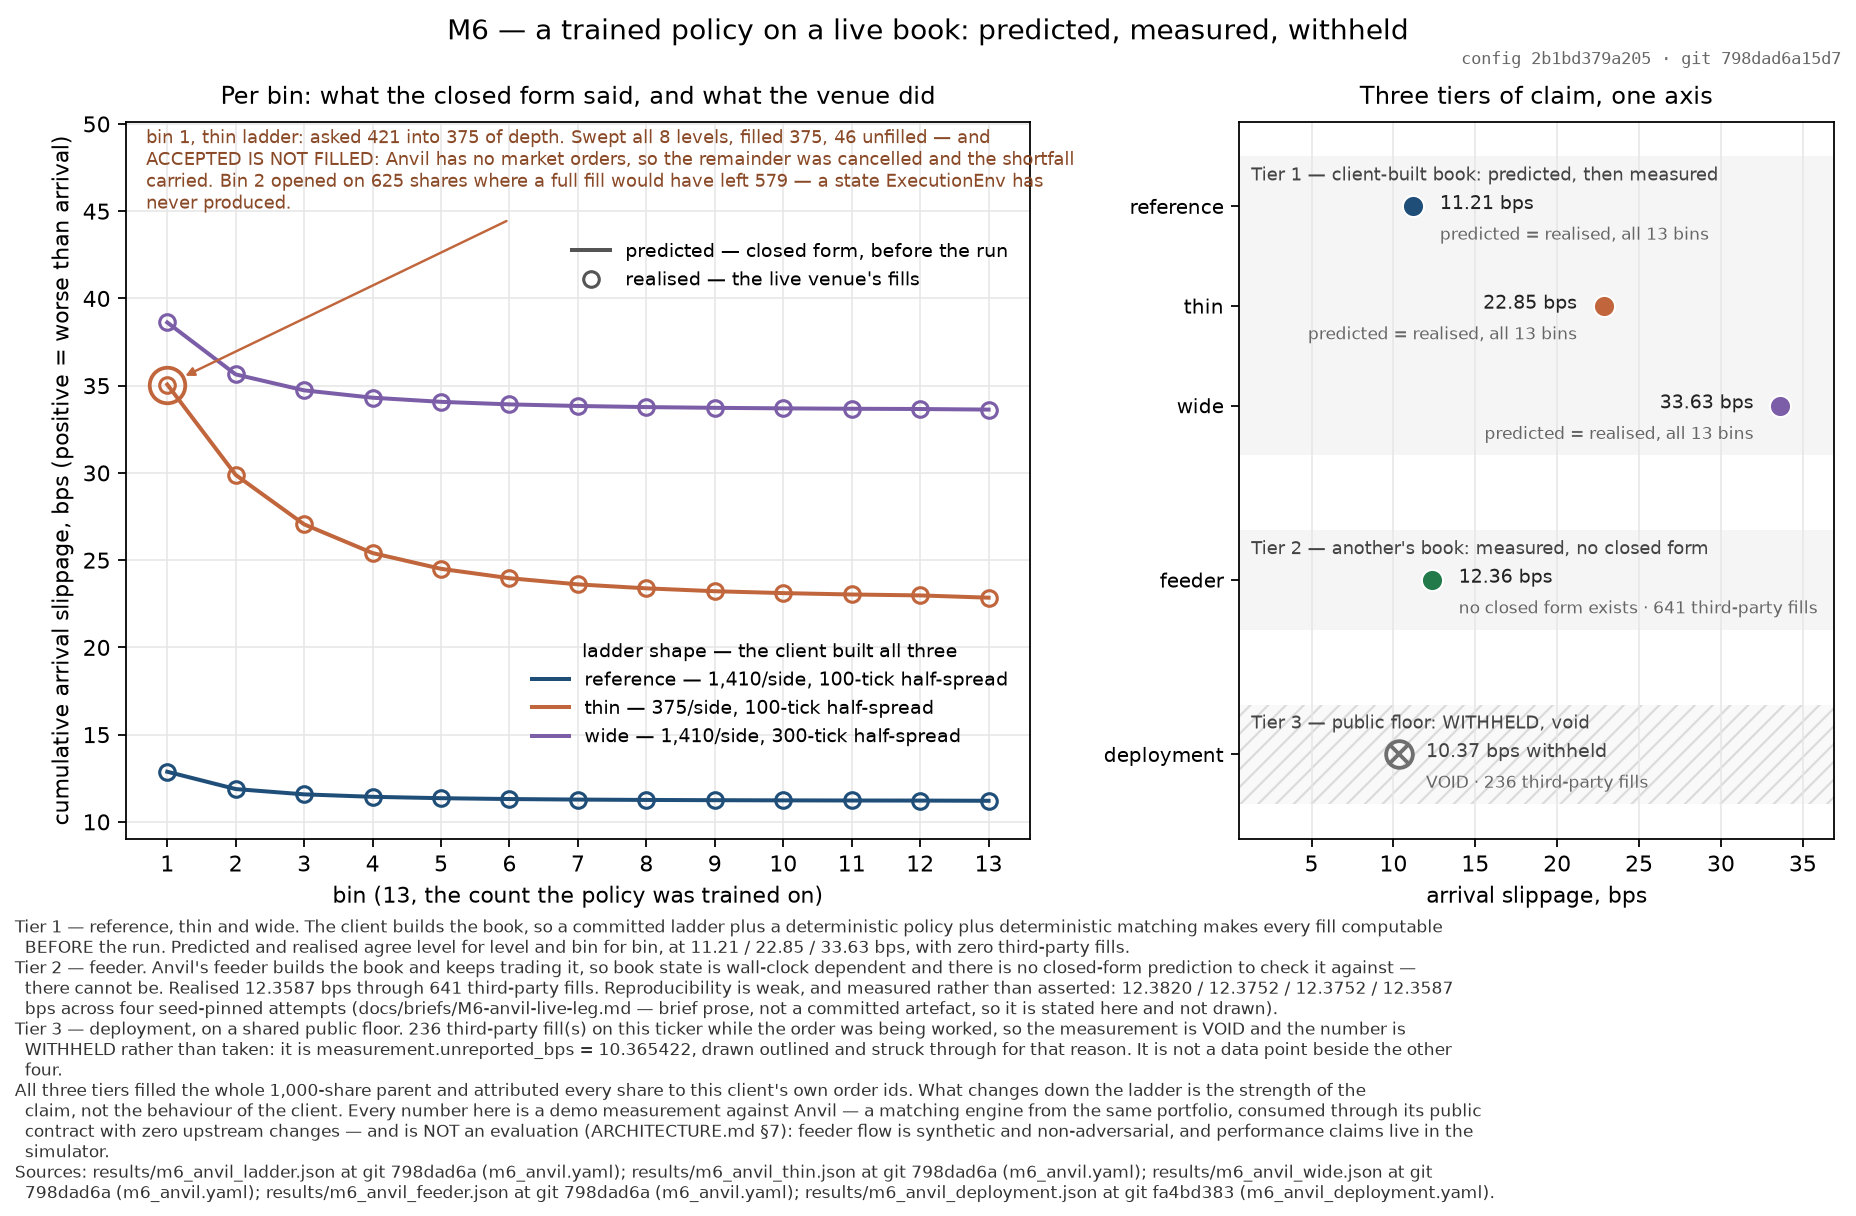
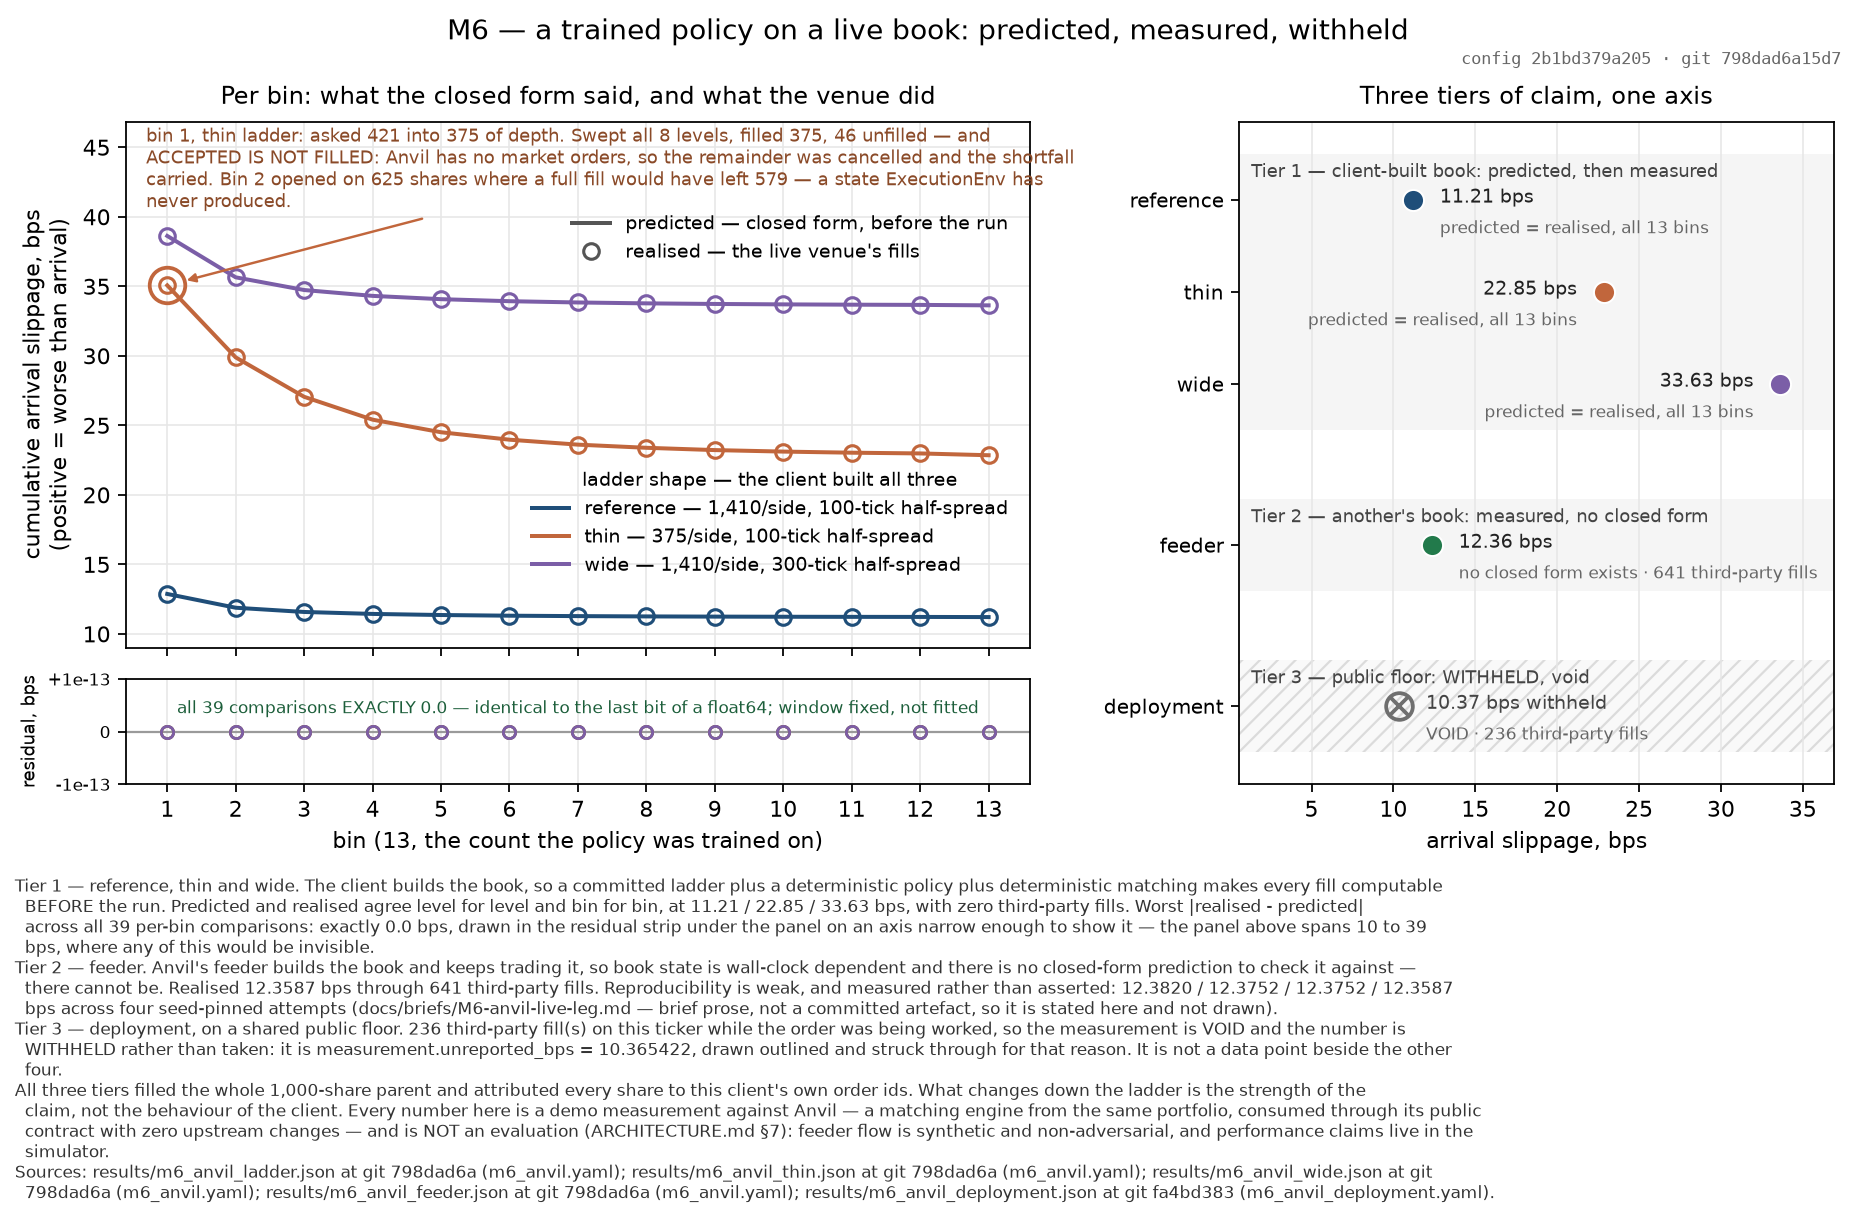
The left panel proves its agreement instead of asserting it
Predicted and realised sat on top of each other on a 10-to-39 bps axis, which is what
agreement to the digit looks like and also what agreement to one percent looks like.
The panel was scaled to the size of the data rather than to the size of the claim —
the same mistake M4a's tolerance denominator was about, made in a figure instead of a
bar.

A residual strip under the left panel now plots realised minus predicted for all 39 bin
comparisons on an axis scaled to the precision actually achieved. The caption carries
the max absolute residual, and `tests/test_m6_runs.py` asserts it, because an unchecked
number in a caption is the same defect class the house note names.

**The residuals are exactly 0.0 — all thirty-nine of them**, which is a stronger result
than a small bound and needed the branch the strip was built with. The predicted and
realised bins carry identical integer `notional_tick_shares` and `filled`, so the
cumulative series are identical floats operation for operation; the difference is not
small, it is zero. With no scale to take from the data an autoscaled axis would have
invented one and made bit-identity look like a measurement with error bars, so the strip
fixes its window at ±1e-13 bps — about eleven of float64's last bits at 39 bps, wide
enough that a single-ulp disagreement would be visible rather than clipped — and says
on its face that the window is fixed, not fitted. If a residual ever stops being zero
[…]

diff --git a/temper/eval/figures.py b/temper/eval/figures.py
@@ -975,6 +975,13 @@ M6_COLOURS = {
 #: that its number must not read as a data point beside the four that are.
 VOID_EDGE = "#6f6f6f"
 
+#: The half-width of the residual strip's y axis when every residual is
+#: exactly zero. Float64's last bit on a value near 39 bps is about 9e-15,
+#: so this window is roughly eleven of them: wide enough that a single-ulp
+#: disagreement would be visible rather than clipped, narrow enough that
+#: the number on the axis says what precision is being claimed.
+ZERO_RESIDUAL_WINDOW_BPS = 1e-13
+
 #: Vertical gap between two rows of the same tier, and between two tiers. The
 #: tiers are the argument, so they are separated by more than the runs inside
 #: them — the grouping has to survive being glanced at.
@@ -1013,6 +1020,19 @@ def prediction_figure(
     figure that let it pass as an ordinary point would be hiding the most
     interesting thing in the milestone.
 
+    **Under it — the residual strip, which is what turns the claim into
+    evidence.** On a 10-to-39 bps axis a marker sitting on a line looks the same
+    whether the two agree to the last bit or to one percent: the panel above is
+    scaled to the size of the *data*, and the claim is about a quantity three
+    orders of magnitude smaller. So the strip differences the very arrays the
+    panel plots — not a second route to them, or it would stop being a check on
+    the panel — and shows all 39 per-bin comparisons on an axis scaled to the
+    precision actually achieved. Where every residual is exactly zero the axis
+    has no scale to take from the data, so a fixed narrow window is used and the
+    strip says so: *identical to the last bit* is a stronger statement than any
+    nonzero bound, and it should be made rather than hidden inside an autoscaled
+    empty axis.
+
     **Right — the three tiers on one bps axis.** Tier 1 predicts and measures.
     Tier 2 measures and cannot predict, and the artefact says why rather than
     apologising for it. Tier 3 *withholds*: 236 third-party fills on a public
@@ -1024,17 +1044,28 @@ def prediction_figure(
     ``tools/m6_prediction.py``: nothing here recomputes a fill, so the figure is a
     *view* of results and redraws byte-identically from them.
     """
-    figure, (left, right) = plt.subplots(
-        1, 2, figsize=(11.6, 7.6), gridspec_kw={"width_ratios": (1.52, 1.0)}
+    figure = plt.figure(figsize=(11.6, 7.6))
+    # The left column is two rows sharing an x-axis; the right panel spans both,
+    # so the tier layout is untouched by the strip's arrival.
+    grid = figure.add_gridspec(
+        2, 2, width_ratios=(1.52, 1.0), height_ratios=(5.0, 1.0)
     )
+    left = figure.add_subplot(grid[0, 0])
+    strip = figure.add_subplot(grid[1, 0], sharex=left)
+    right = figure.add_subplot(grid[:, 1])
 
     # ---- left panel: per bin, predicted against realised -------------------
     bins = np.asarray(ladders["bins"], dtype=float)
+    # Kept as they are drawn, so the strip below differences the arrays this
+    # panel actually plotted rather than recomputing them from the source.
+    drawn_series: list[tuple[str, np.ndarray]] = []
     for row in ladders["runs"]:
         colour = M6_COLOURS[row["run"]]
+        predicted = np.asarray(row["predicted_bps"], dtype=float)
+        realised = np.asarray(row["realised_bps"], dtype=float)
         left.plot(
             bins,
-            np.asarray(row["predicted_bps"], dtype=float),
+            predicted,
             color=colour,
             linewidth=1.8,
             zorder=2,
@@ -1042,7 +1073,7 @@ def prediction_figure(
         )
         left.plot(
             bins,
-            np.asarray(row["realised_bps"], dtype=float),
+            realised,
             linestyle="none",
             marker="o",
             markersize=7.0,
@@ -1051,6 +1082,7 @@ def prediction_figure(
             markeredgewidth=1.4,
             zorder=3,
         )
+        drawn_series.append((colour, realised - predicted))
 
     # The bin where the loop closed. Ringed first so the annotation's leader has
     # something to point at that is visibly not one of the ordinary markers.
@@ -1125,26 +1157,90 @@ def prediction_figure(
         frameon=False,
     )
 
-    left.set_xlabel("bin (13, the count the policy was trained on)")
-    left.set_ylabel("cumulative arrival slippage, bps (positive = worse than arrival)")
+    left.set_ylabel(
+        "cumulative arrival slippage, bps\n(positive = worse than arrival)"
+    )
     left.set_title(
         "Per bin: what the closed form said, and what the venue did",
         fontsize=11,
         pad=8,
     )
-    left.set_xticks(bins)
-    left.xaxis.set_major_formatter(ticker.FormatStrFormatter("%d"))
+    left.tick_params(labelbottom=False)
     left.set_xlim(0.4, 13.6)
     # Headroom above the tallest point, reserved rather than left to the
     # autoscaler: the annotation is placed in axes fractions and would
-    # otherwise sit on top of the wide ladder's first bin.
+    # otherwise sit on top of the wide ladder's first bin. Trimmed from 0.42
+    # when the strip arrived — the top of the panel was the only empty space
+    # the strip could come out of without a taller canvas.
     drawn = np.concatenate(
         [np.asarray(row["realised_bps"], dtype=float) for row in ladders["runs"]]
     )
     low, high = float(np.nanmin(drawn)), float(np.nanmax(drawn))
-    left.set_ylim(low - 0.08 * (high - low), high + 0.42 * (high - low))
+    left.set_ylim(low - 0.08 * (high - low), high + 0.30 * (high - low))
     left.grid(color="#e6e6e6", linewidth=0.7)
     left.set_axisbelow(True)
+
+    # ---- the residual strip ------------------------------------------------
+    residuals = np.concatenate([series for _, series in drawn_series])
+    comparisons = int(residuals.size)
+    worst = float(np.nanmax(np.abs(residuals))) if comparisons else 0.0
+    if worst == 0.0:
+        # No scale to take from the data. A fixed window, stated on the axis and
+        # in the strip, rather than an autoscaled axis that would silently invent
+        # one and make bit-identity look like a measurement with error bars.
+        window = ZERO_RESIDUAL_WINDOW_BPS
+        verdict = (
+            f"all {comparisons} comparisons EXACTLY 0.0 — identical to the last bit "
+            f"of a float64; window fixed, not fitted"
+        )
+        verdict_colour = "#1c5e3a"
+    else:
+        window = 1.6 * worst
+        verdict = (
+            f"worst |realised − predicted| over {comparisons} comparisons: "
+            f"{worst:.2e} bps"
+        )
+        verdict_colour = "#8a4a28"
+
+    strip.axhline(0.0, color="#9a9a9a", linewidth=1.0, zorder=1)
+    for colour, series in drawn_series:
+        strip.plot(
+            bins,
+            series,
+            linestyle="none",
+            marker="o",
+            markersize=5.5,
+            markerfacecolor="none",
+            markeredgecolor=colour,
+            markeredgewidth=1.2,
+            zorder=3,
+        )
+    strip.text(
+        0.5,
+        0.80,
+        verdict,
+        transform=strip.transAxes,
+        fontsize=7.5,
+        color=verdict_colour,
+        ha="center",
+        va="top",
+        zorder=4,
+    )
+
+    strip.set_ylim(-window, window)
+    strip.set_yticks([-window, 0.0, window])
+    # Spelled out rather than left to an offset-notation exponent parked in the
+    # corner. The magnitude *is* the point of this strip, so it is on every tick
+    # a reader's eye lands on.
+    strip.set_yticklabels(
+        [f"-{window:.0e}", "0", f"+{window:.0e}"], fontsize=7.5
+    )
+    strip.set_ylabel("residual, bps", fontsize=8.0)
+    strip.set_xlabel("bin (13, the count the policy was trained on)")
+    strip.set_xticks(bins)
+    strip.xaxis.set_major_formatter(ticker.FormatStrFormatter("%d"))
+    strip.grid(color="#e6e6e6", linewidth=0.7)
+    strip.set_axisbelow(True)
 
     # ---- right panel: the three tiers on one bps axis ----------------------
     rows = tiers["rows"]
@@ -1273,7 +1369,9 @@ def prediction_figure(
         ha="right",
         va="top",
     )
-    figure.subplots_adjust(left=0.068, right=0.988, top=0.900, bottom=0.310, wspace=0.28)
+    figure.subplots_adjust(
+        left=0.068, right=0.988, top=0.900, bottom=0.355, wspace=0.28, hspace=0.10
+    )
 
     target = Path(path)
     target.parent.mkdir(parents=True, exist_ok=True)

diff --git a/tests/test_m6_runs.py b/tests/test_m6_runs.py
@@ -347,13 +347,14 @@ def test_the_prediction_figure_is_committed_and_redraws_byte_identically(tmp_pat
     assert committed.stat().st_size > 10_000
 
     documents = _figure_inputs()
+    ladders = build_ladders(documents)
     tiers = build_tiers(documents)
     written = prediction_figure(
         tmp_path / "m6_prediction",
-        ladders=build_ladders(documents),
+        ladders=ladders,
         tiers=tiers,
         provenance=Provenance(**documents[STAMP_RUN]["provenance"]),
-        caption=caption(documents, tiers),
+        caption=caption(documents, ladders, tiers),
     )
     assert len(written) == 1
     assert written[0].read_bytes() == committed.read_bytes(), (
@@ -435,17 +436,21 @@ def test_the_caption_and_the_annotation_never_omit_what_they_may_not():
     )
 
     documents = _figure_inputs()
-    text = caption(documents, build_tiers(documents))
+    text = caption(documents, build_ladders(documents), build_tiers(documents))
+    # Line breaks collapsed: these assertions are about the words, and the
+    # caption is hard-wrapped, so a phrase straddling a wrap would be a red
+    # test about nothing.
+    words = " ".join(text.split())
 
-    assert "Tier 1" in text and "Tier 2" in text and "Tier 3" in text
-    assert "NOT an evaluation (ARCHITECTURE.md §7)" in text
-    assert "WITHHELD rather than taken" in text
-    assert "measurement.unreported_bps" in text
-    assert "attributed every share" in text
+    assert "Tier 1" in words and "Tier 2" in words and "Tier 3" in words
+    assert "NOT an evaluation (ARCHITECTURE.md §7)" in words
+    assert "WITHHELD rather than taken" in words
+    assert "measurement.unreported_bps" in words
+    assert "attributed every share" in words
     # The feeder's four-attempt spread is brief prose, not artefact data. It is
     # allowed in the caption and nowhere near an axis, and the caption has to say
     # which it is.
-    assert "not a committed artefact, so it is stated here and not drawn" in text
+    assert "not a committed artefact, so it is stated here and not drawn" in words
 
     overlong = [line for line in text.splitlines() if len(line) > CAPTION_WIDTH]
     assert not overlong, (
@@ -489,3 +494,48 @@ def test_the_figure_tool_runs_end_to_end_with_no_server(tmp_path):
     assert exit_info.value.code == 0
     written = sorted(tmp_path.glob("m6_prediction.*"))
     assert written and written[0].stat().st_size > 10_000
+
+
+#: Pre-stated bound on the worst per-bin residual between the closed form and the
+#: venue, over all 39 comparisons. Stated at 1e-12 bps — two orders above float64's
+#: last bit on values of this size — and NOT at the observed value, which is exactly
+#: zero: a bound tightened to fit what was measured is not a bound. The figure
+#: reports the observed number and switches its own axis from the fixed window to an
+#: autoscaled one the moment it stops being zero, so a divergence far too small to
+#: fail here would still be visible on the strip.
+MAX_RESIDUAL_BPS = 1e-12
+
+
+def test_the_residual_the_caption_reports_is_measured_and_inside_its_bound():
+    """The caption's number is computed, bounded, and the one the strip draws.
+
+    An unchecked number in a caption is a claim nobody has read — the same defect
+    class as a driver's last line, which is what the house note is about. So the
+    worst residual is asserted against a bound stated before it was looked at, and
+    the caption is required to carry exactly the value that was checked.
+
+    The observed value is stronger than the bound: all 39 comparisons are exactly
+    0.0, because the predicted and realised bins carry identical integer fills and
+    the cumulative series are therefore identical floats operation for operation.
+    That is the claim the strip's fixed window exists to state.
+    """
+    from tools.m6_prediction import (
+        build_ladders,
+        build_tiers,
+        caption,
+        max_abs_residual,
+    )
+
+    documents = _figure_inputs()
+    ladders = build_ladders(documents)
+    worst, comparisons = max_abs_residual(ladders)
+
+    assert comparisons == len(LADDER_RUNS) * 13
+    assert worst <= MAX_RESIDUAL_BPS, (
+        f"the worst per-bin residual is {worst:.3e} bps, outside the pre-stated "
+        f"{MAX_RESIDUAL_BPS:.0e} bps — the venue and the closed form have diverged"
+    )
+
+    reported = "exactly 0.0" if worst == 0.0 else f"{worst:.3e}"
+    words = " ".join(caption(documents, ladders, build_tiers(documents)).split())
+    assert f"across all {comparisons} per-bin comparisons: {reported} bps" in words

diff --git a/tools/m6_prediction.py b/tools/m6_prediction.py
@@ -70,6 +70,24 @@ STAMP_RUN = "ladder"
 #: ``docs/briefs/M6-anvil-live-leg.md``.
 FEEDER_ATTEMPTS_BPS = (12.3820, 12.3752, 12.3752, 12.3587)
 
+def max_abs_residual(ladders: dict) -> tuple[float, int]:
+    """``(worst |realised - predicted|, how many comparisons)`` over the strip.
+
+    Differenced from the same two series the figure draws, so the number the
+    caption carries is the number the strip shows. The tests assert it against
+    a pre-stated bound rather than trusting it: an unchecked number in a
+    caption is a claim nobody has read, which is the defect class the house
+    note names about a driver's last line.
+    """
+    worst = 0.0
+    comparisons = 0
+    for row in ladders["runs"]:
+        for realised, predicted in zip(row["realised_bps"], row["predicted_bps"]):
+            worst = max(worst, abs(realised - predicted))
+            comparisons += 1
+    return worst, comparisons
+
+
 #: Characters per line of the one annotation on the per-bin panel, which
 #: shares the caption's problem and needs its own bound: it is drawn inside
 #: the left panel rather than across the canvas, so it gets less room.
@@ -209,9 +227,11 @@ def build_tiers(documents: dict[str, dict]) -> dict:
     return {"rows": rows, "captions": TIER_CAPTIONS}
 
 
-def caption(documents: dict[str, dict], tiers: dict) -> str:
-    """The four things this figure may never be shown without, hard-wrapped."""
+def caption(documents: dict[str, dict], ladders: dict, tiers: dict) -> str:
+    """The five things this figure may never be shown without, hard-wrapped."""
     by_run = {row["run"]: row for row in tiers["rows"]}
+    worst, comparisons = max_abs_residual(ladders)
+    worst_text = "exactly 0.0" if worst == 0.0 else f"{worst:.3e}"
     deployment = documents["deployment"]
     feeder = documents["feeder"]
     reason = deployment["measurement"]["reasons"][0]
@@ -224,7 +244,11 @@ def caption(documents: dict[str, dict], tiers: dict) -> str:
         f"makes every fill computable BEFORE the run. Predicted and realised agree "
         f"level for level and bin for bin, at {by_run['ladder']['bps']:.2f} / "
         f"{by_run['thin']['bps']:.2f} / {by_run['wide']['bps']:.2f} bps, with zero "
-        f"third-party fills.",
+        f"third-party fills. Worst |realised - predicted| across all "
+        f"{comparisons} per-bin comparisons: {worst_text} bps, drawn in the "
+        f"residual strip under the panel on an axis narrow enough to show it — "
+        f"the panel above spans 10 to 39 bps, where any of this would be "
+        f"invisible.",
         f"Tier 2 — feeder. Anvil's feeder builds the book and keeps trading it, so "
         f"book state is wall-clock dependent and there is no closed-form prediction "
         f"to check it against — there cannot be. Realised "
@@ -302,7 +326,7 @@ def main() -> int:
             git_dirty=stamp["git_dirty"],
             python=stamp["python"],
         ),
-        caption=caption(documents, tiers),
+        caption=caption(documents, ladders, tiers),
     )
     for path in written:
         # `relative_to` raises for anything outside the tree, and a driver that
